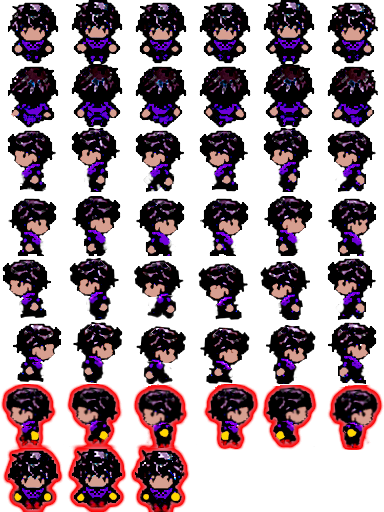
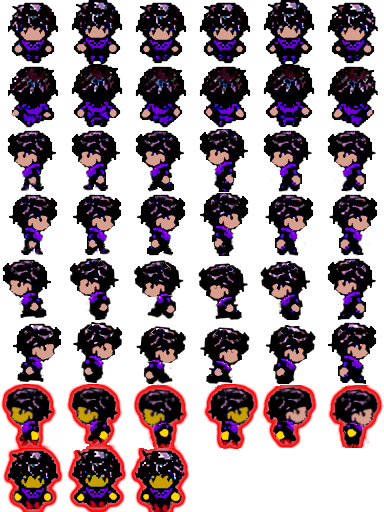
started quests refactoring, asset adjustments

diff --git a/Web/app/Game/Scenes/InGameScene.ts b/Web/app/Game/Scenes/InGameScene.ts
@@ -9,7 +9,8 @@ import { Mob, AtrType } from "../Mobs/Mob";
 import { Hud } from "../Hud";
 import { SoundMan } from "../SoundMan";
 import { LevelLoader, ILevel, ILevelMap, IMapEntity } from "../LevelLoader";
-import { QuestManager, QuestState } from "../QuestManager";
+import { QuestManager } from "../QuestSystem/QuestManager";
+import { QuestState } from "../QuestSystem/QuestState";
 import { WorldP2 } from "../Objects/WorldP2";
 import { Bullet } from "../Objects/Bullet";
 import { OptionsScene } from "./OptionsScene";
@@ -221,7 +222,7 @@ export class InGameScene extends Scene {
         //-------------------------------------------
         //  check if player is dead
         //-------------------------------------------
-        if (this.PlayerStats.getStat(StatType.HP) <= 0) {
+        if (this.hero.PlayerStats.getStat(StatType.HP) <= 0) {
             this.IsHeroInteractive = false;
             this.hero.visible = false;
 
@@ -232,10 +233,6 @@ export class InGameScene extends Scene {
             Global.sceneMngr.ActivateScene(cutScene);
         }
     };
-
-    public get PlayerStats(): PlayerStats {
-        return this.hero.PlayerStats;
-    }
 
     public set IsHeroInteractive(value: boolean) {
         if (this.hero.IsInteractive !== value) {
@@ -342,22 +339,21 @@ export class InGameScene extends Scene {
                 //  the callee must set the mob.ShouldInteract to exclude
                 //  standard collision logic.
                 //----------------------------------------------------------
-                if (dispObj.interactionType >= 2000 && dispObj.interactionType < 3000) {
-                    var mob: Mob = body.DisplayObject as Mob;
-                    if (mob.ShouldInteract) {
-                        this.handleMobInteraction(mob, dispObj.interactionType, body);
-                    }                    
-                }
+                //if (dispObj.interactionType >= 2000 && dispObj.interactionType < 3000) {
+                //    var mob: Mob = body.DisplayObject as Mob;
+                //    if (mob.ShouldInteract) {
+                //        this.handleMobInteraction(mob, dispObj.interactionType, body);
+                //    }                    
+                //}
         }
     }
 
     /**
      * Handles interaction with mobs (mob kill).
      * @param mob
-     * @param mobType
      * @param body
      */
-    private handleMobInteraction(mob: Mob, mobType: number, body: p2.Body) {
+    private handleMobInteraction(mob: Mob, body: p2.Body) {
         let dispObj = (body as any).DisplayObject as PIXI.DisplayObject;
 
         //  generate drop
@@ -482,14 +478,14 @@ export class InGameScene extends Scene {
         var endY = this.hero.y + 50;
 
         var moveUp = new TWEEN.Tween(dispObj.position)
-            .to({ x: upX, y: upY }, 500);
+            .to({ x: upX, y: upY }, 400);
 
         var scale = new TWEEN.Tween(dispObj.scale)
-            .to({ x: 1.6, y: 1.6 }, 300)
+            .to({ x: orgScaleX + 0.4, y: orgScaleX + 0.4 }, 350)
             .easing(TWEEN.Easing.Linear.None);
 
         var moveAway = new TWEEN.Tween(dispObj.position)
-            .to({ x: endX, y: endY }, 300)
+            .to({ x: endX, y: endY }, 350)
             .easing(TWEEN.Easing.Back.In)
             .onComplete(() => {
                 dispObj.scale.set(orgScaleX, orgScaleY);
@@ -504,7 +500,9 @@ export class InGameScene extends Scene {
      * Starts an animation tween and removes the display object from scene.
      * @param dispObj
      */
-    private addCollectibleTween(dispObj: PIXI.DisplayObject):void {
+    private addCollectibleTween(dispObj: PIXI.DisplayObject): void {
+        var orgScaleX = dispObj.scale.x;
+        var orgScaleY = dispObj.scale.y;
         var upX = dispObj.position.x + 45;
         var upY = dispObj.position.y + 160;
 
@@ -515,7 +513,7 @@ export class InGameScene extends Scene {
             .to({ x: upX, y: upY }, 150);
 
         var scale = new TWEEN.Tween(dispObj.scale)
-            .to({ x: 1.6, y: 1.6 }, 500)
+            .to({ x: orgScaleX + 0.6, y: orgScaleX + 0.6 }, 500)
             .easing(TWEEN.Easing.Linear.None);
 
         var moveAway = new TWEEN.Tween(dispObj.position)
@@ -844,8 +842,8 @@ export class InGameScene extends Scene {
         if (verticalVelocity > ATTACK_VELOCITY && body.shapes[0].collisionGroup === WorldP2.COL_GRP_NPC) {
             //  check collision vs mobs
             console.log("Mob hit!");
-            (body as any).DisplayObject.ShouldInteract = true;
-            this.handleInteractiveCollision(body);
+            var mob: Mob = (body as any).DisplayObject as Mob;
+            this.handleMobInteraction(mob, body);
         } else if (verticalVelocity > SMOKE_VELOCITY) {
             var smoke: AnimatedSprite = new AnimatedSprite();
             smoke.addAnimations(new AnimationSequence("smoke", "assets/_distribute/jump_smoke.png",

diff --git a/Web/app/Game/LevelLoader.ts b/Web/app/Game/LevelLoader.ts
@@ -45,6 +45,26 @@ export class LevelLoader {
             //  merge global templates with level templates
             var templates = root.templates.concat(level.map.templates);
 
+            // add all textures from templates (we don't need to have entities referencing the template if they are in a spawn)
+            level.map.templates.forEach((tos: ITemplateOrSpawnPoint, idx, arr) => {
+                if (!tos.type || tos.type !== "spawn_point") {
+                    let templ = tos as ITemplate;
+                    let dispObj = templ.displayObject;
+                    if (dispObj.texture) {
+                        if (typeof dispObj.texture === "string") {
+                            assets.push(dispObj.texture);
+                        } else {
+                            assets = assets.concat(dispObj.texture);
+                        }
+                    }
+                    if (dispObj.sequences) {
+                        dispObj.sequences.forEach((item) => {
+                            assets.push(item.texture);
+                        });
+                    }     
+                }
+            });
+
             level.map.entities.forEach((entity: IMapEntity, idx, arr) => {
                 let defs = LevelLoader.getTemplates(templates, entity);
                 if (defs.doDef.texture) {
@@ -62,13 +82,13 @@ export class LevelLoader {
             });
 
             level.map.NPC = level.map.NPC || [];
-            level.map.NPC.forEach((npc:ITemplateOrSpawnPoint, idx, arr) => {
+            level.map.NPC.forEach((tos:ITemplateOrSpawnPoint, idx, arr) => {
                 //  check if its a template or spawn_point
-                if (npc.type && npc.type==="spawn_point"){
+                if (tos.type && tos.type==="spawn_point"){
 
                 } else {
                     //  this is an entity definition
-                    let entity: IMobEntity = npc as IMobEntity;
+                    let entity: IMobEntity = tos as IMobEntity;
 
                     //  concat attack (string | string[])
                     assets = assets.concat(entity.attack);
@@ -242,9 +262,9 @@ export class LevelLoader {
         (mobDispObj as any).templateName = defs.templateName;
 
         // attributes and AI
-        mobDispObj.Attributes = entity.attributes || [];
+        mobDispObj.Attributes = entity.attributes || defs.doDef.attributes || [];
         mobDispObj.CreateAI(entity.ai || "basic_static");
-        mobDispObj.AtkTexture = entity.attack;
+        mobDispObj.AtkTexture = entity.attack || defs.doDef.attack;
 
         //  body        
         defs.bdDef.material = defs.bdDef.material || "mob_default";

diff --git a/Web/app/Game/QuestSystem/QuestManager.ts b/Web/app/Game/QuestSystem/QuestManager.ts
@@ -1,11 +1,12 @@
-import * as Global from "./Global";
+import * as Global from "../Global";
 import * as AjaxHelper from "app/Common/AjaxHelper";
-import { WorldP2 } from "./Objects/WorldP2";
-import { ITriggerDefinition } from "./LevelLoader";
-import { InGameScene } from "./Scenes/InGameScene";
-import { CutScene } from "./Scenes/CutScene";
-import { HeroCharacter } from "./Player/HeroCharacter";
-import { StatType } from "./Player/PlayerStats";
+import { QuestState } from "./QuestState";
+import { WorldP2 } from "../Objects/WorldP2";
+import { ITriggerDefinition } from "../LevelLoader";
+import { InGameScene } from "../Scenes/InGameScene";
+import { CutScene } from "../Scenes/CutScene";
+import { HeroCharacter } from "../Player/HeroCharacter";
+import { StatType } from "../Player/PlayerStats";
 
 declare var baseUrl: string;
 
@@ -249,9 +250,9 @@ export class QuestManager {
     private saveUserState() {
         let model = {
             ExternalId: Global.UserInfo.id,
-            Gold: this.gameScene.PlayerStats.getStat(StatType.Coins),
-            Dust: Math.floor(this.gameScene.PlayerStats.getStat(StatType.Dust)),
-            Exp: this.gameScene.PlayerStats.getStat(StatType.Exp),
+            Gold: this.hero.PlayerStats.getStat(StatType.Coins),
+            Dust: Math.floor(this.hero.PlayerStats.getStat(StatType.Dust)),
+            Exp: this.hero.PlayerStats.getStat(StatType.Exp),
             LastLevel: Global.UserInfo.gamelevel,
             // TODO: add sending attributes, skills, exp etc
         };
@@ -261,22 +262,3 @@ export class QuestManager {
     }
 }
 
-
-export enum QuestState {
-    None,
-
-    /**
-     *  Quest has been started.
-     */
-    InProgress,
-
-    /**
-     *  Quest items/conditions have been completed.
-     */
-    Completed,
-
-    /**
-     *  Quest has been finished.
-     */
-    Finished
-}

diff --git a/Web/app/Game/QuestSystem/Quest.ts b/Web/app/Game/QuestSystem/Quest.ts
@@ -1,0 +1,24 @@
+import { QuestState } from "./QuestState";
+
+export class Quest {
+
+    public id: number;
+    public welcomeMsg: string;
+    public objectiveMsg: string;
+    public completedMsg: string;
+    public finishedMsg: string;
+    public state: QuestState = QuestState.None;
+
+    /**
+     * Item's interaction type, used only for item collect quests
+     */
+    public itemId: number;
+
+    /**
+     * Number of items collected, used only for item collect quests
+     */
+    public itemsCollected: number;
+
+    public rewardExp: number;
+    public rewardCoins: number;
+}

diff --git a/Web/app/Game/QuestSystem/QuestState.ts b/Web/app/Game/QuestSystem/QuestState.ts
@@ -1,0 +1,19 @@
+
+export enum QuestState {
+    None,
+
+    /**
+     *  Quest has been started.
+     */
+    InProgress,
+
+    /**
+     *  Quest items/conditions have been completed.
+     */
+    Completed,
+
+    /**
+     *  Quest has been finished.
+     */
+    Finished
+}
